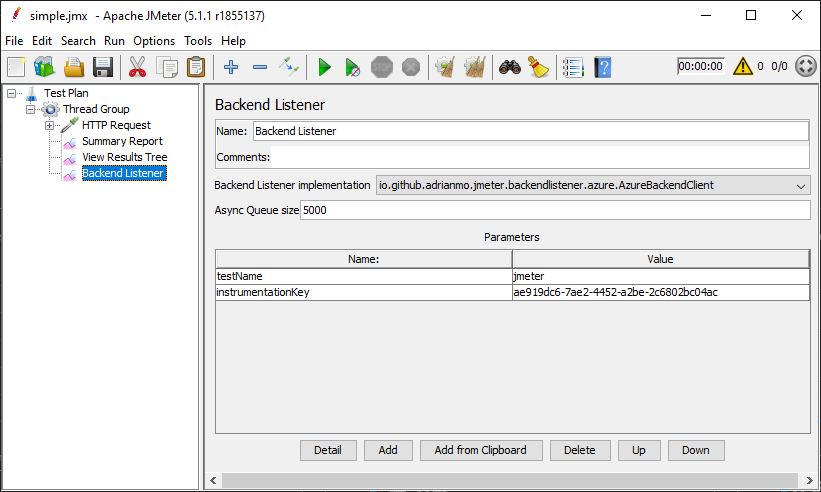
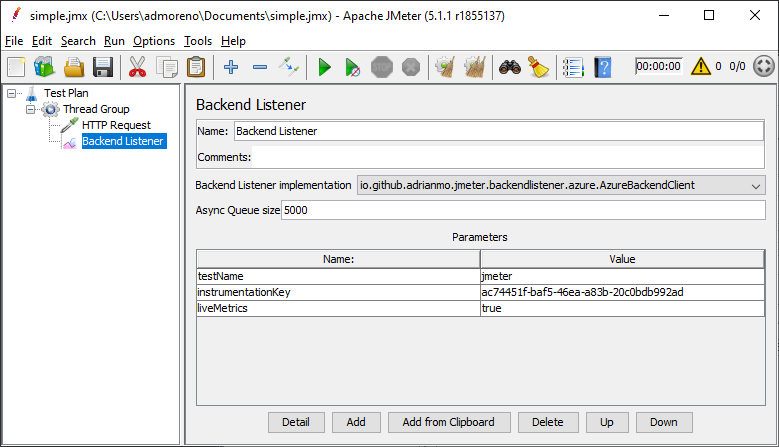
Add documentation about the live metrics setting

Changed region(s): [[0.0, 0.0, 1.0, 1.0], [0.8935, 0.0, 0.9243, 0.0582], [0.9551, 0.0291, 0.9859, 0.0582]]

diff --git a/README.md b/README.md
@@ -44,7 +44,13 @@ Then, restart JMeter and the plugin should be loaded.
 
 To make JMeter send test result metrics to Azure Application Insights, in your **Test Pan**, right click on 
 **Thread Group** > Add > Listener > Backend Listener, and choose `io.github.adrianmo.jmeter.backendlistener.azure.AzureBackendClient` as `Backend Listener Implementation`. 
-Then, specify the test name and the Application Insights instrumentation key as a parameter as shown in image below.
+Then, in the Parameters table, configure the following attributes.
+
+| Attribute | Description | Required |
+|---|---|---|
+| *instrumentationKey* | The Instrumentation Key of your Application Insights instance | Yes |
+| *testName* | Name of the test. This value is used to differentiate metrics across test runs or plans in Application Insights and allow you to filter them. | Yes |
+| *liveMetrics* | Boolean to indicate whether or not real-time metrics are enabled and available in the [Live Metrics Stream](https://docs.microsoft.com/en-us/azure/azure-monitor/app/live-stream). Defaults to `true`. | No |
 
 ![Screenshot of configuration](docs/configuration.png "Screenshot of JMeter configuration")
 
@@ -54,6 +60,10 @@ Test result metrics are available in the **requests** dimension of your Applicat
 In the image you can see an example of how you can visualize the duration of the requests made during your test run.
 
 ![Request duration](docs/requestduration.png "Screenshot of test requests duration")
+
+Additionally, if you `liveMetrics` is enabled in the configuration, you can watch your test performance in real-time in the Live Metrics Stream blade.
+
+![Live Metrics Stream](docs/livemetrics.png "Screenshot of live metrics stream")
 
 ## Contributing
 
